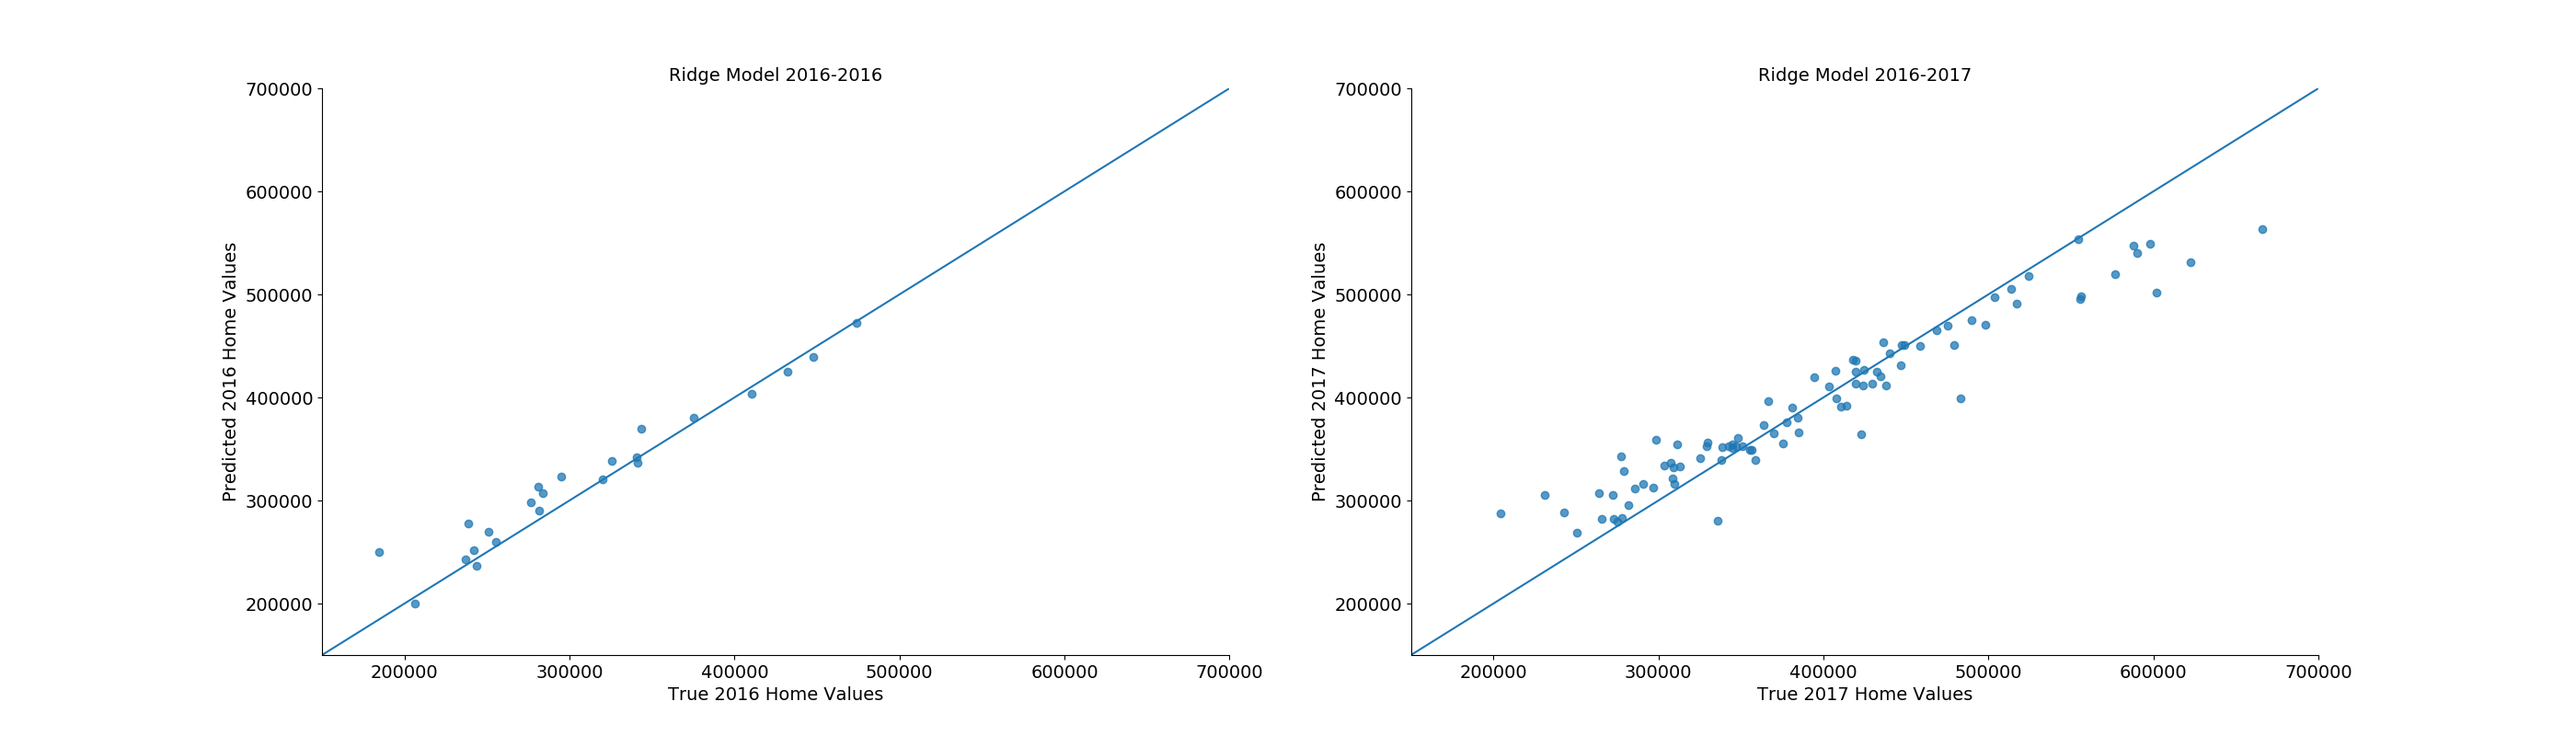
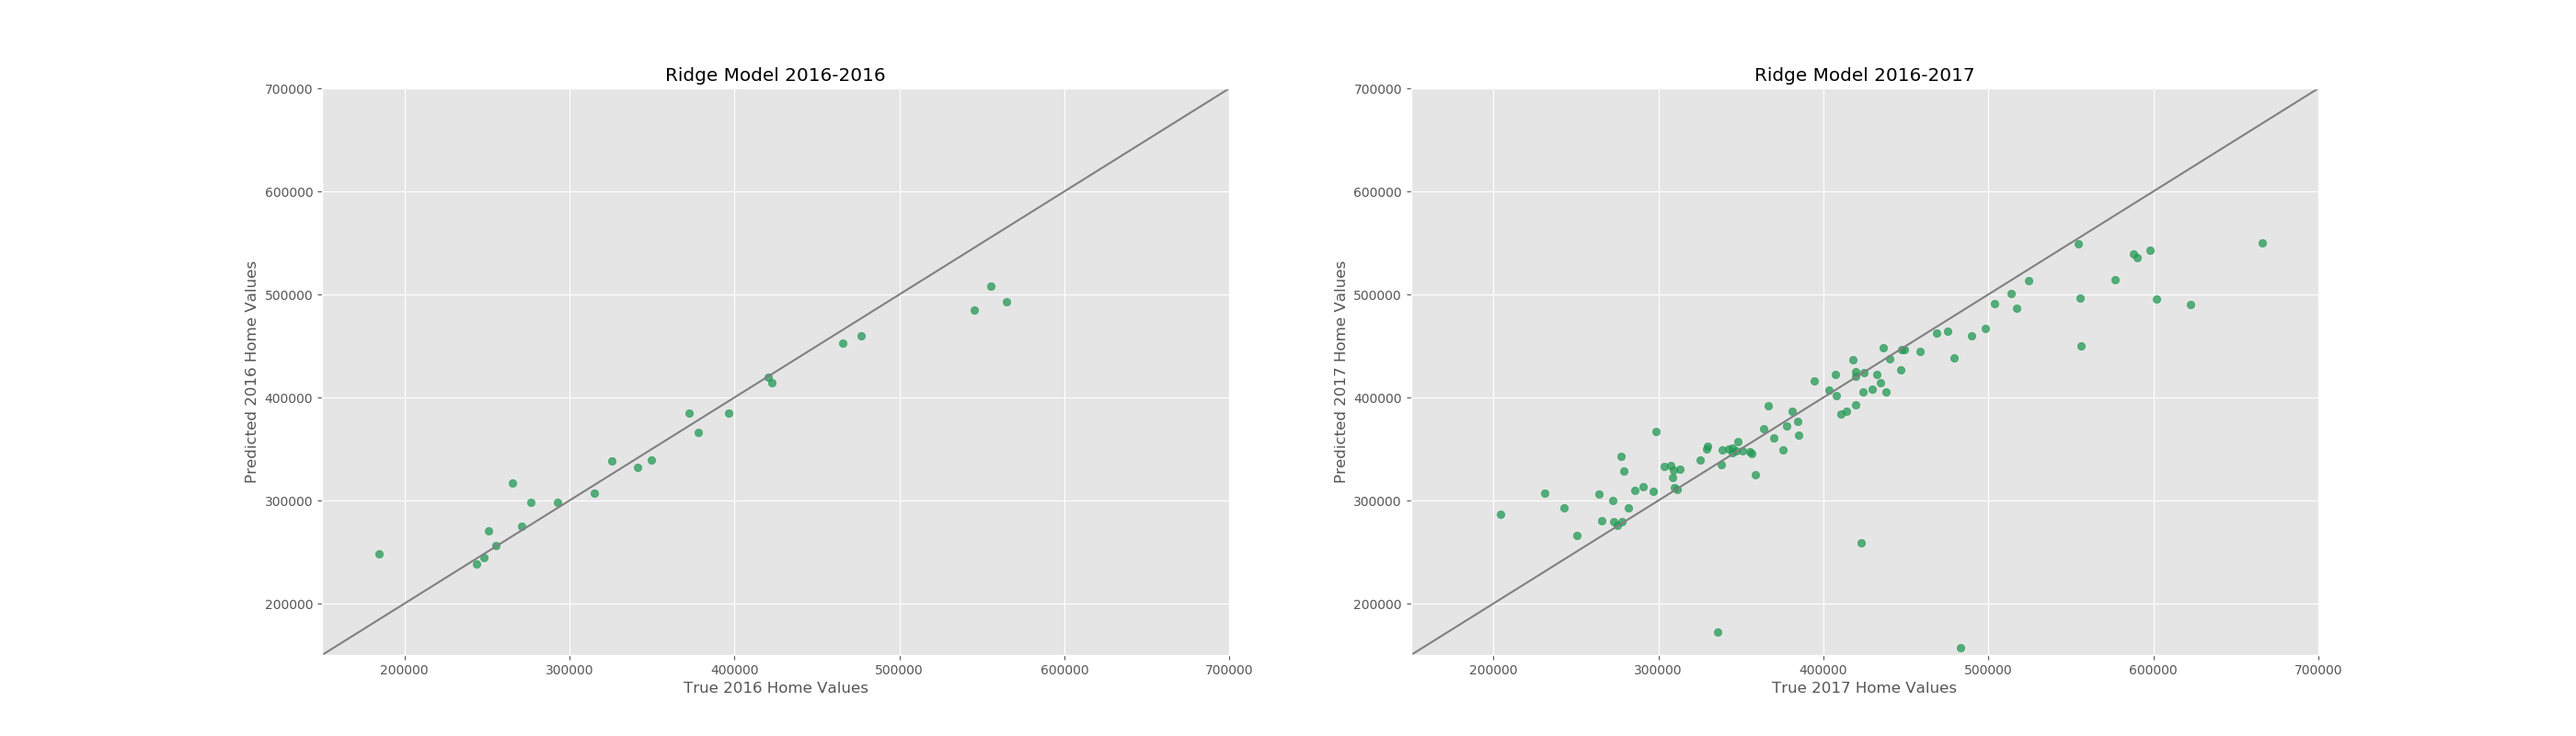
update images and scripts

diff --git a/src/regressions.py b/src/regressions.py
@@ -9,17 +9,21 @@ import numpy as np
 import pandas as pd
 import statsmodels.api as sm
 import matplotlib.pyplot as plt
+from matplotlib import style
 from math import sqrt
 from utils import XyScaler
 from sklearn.base import clone
 from sklearn.feature_selection import RFE
+from statsmodels.stats.outliers_influence import variance_inflation_factor
 
-import matplotlib
-matplotlib.rc('figure', figsize = (12, 12))
-matplotlib.rc('font', size = 14)
-matplotlib.rc('axes.spines', top = False, right = False)
-matplotlib.rc('axes', grid = False)
-matplotlib.rc('axes', facecolor = 'white')
+# import matplotlib
+# matplotlib.rc('figure', figsize = (12, 12))
+# matplotlib.rc('font', size = 14)
+# matplotlib.rc('axes.spines', top = False, right = False)
+# matplotlib.rc('axes', grid = False)
+# matplotlib.rc('axes', facecolor = 'white')
+
+style.use('ggplot')
 
 data = pd.read_csv('/Users/michellelee/galvanize/week4/analytic_capstone/data/main.csv')
 df = data.copy()
@@ -50,25 +54,25 @@ y_2018 = df['2018_Zip_Zhvi_AllHomes'].values
 
 # HISTOGRAMS OF HOME VALUES BY YEAR
 fig, (ax0, ax1, ax2) = plt.subplots(ncols=3, figsize=(28, 8))
-ax0.hist(y_2016, facecolor = '#5DADE2')
+ax0.hist(y_2016, facecolor = '#7DCEA0')
 ax0.set_title('2016')
 ax0.set_xlabel('Home Values')
 ax0.set_xlim(200000, 700000)
 ax0.set_ylim(0, 18)
 
-ax1.hist(y_2017, facecolor = '#FF5733')
+ax1.hist(y_2017, facecolor = '#229954')
 ax1.set_title('2017')
 ax1.set_xlabel('Home Values')
 ax1.set_xlim(200000, 700000)
 ax1.set_ylim(0, 18)
 
-ax2.hist(y_2018, facecolor = '#27AE60')
+ax2.hist(y_2018, facecolor = '#145A32')
 ax2.set_title('2018')
 ax2.set_xlabel('Home Values')
 ax2.set_xlim(200000, 700000)
 ax2.set_ylim(0, 18)
-# plt.savefig('ZHVI2016-2018.png')
-# plt.show()
+plt.savefig('images/ZHVI2016-2018.png')
+plt.show()
 
 # HISTOGRAM OF REAL ESTATE FEATURES
 df_real_estate_features = df_2016[[
@@ -81,9 +85,9 @@ df_real_estate_features = df_2016[[
            '2016_Zip_PctOfHomesIncreasingInValues_AllHomes',
            '2016_Zip_PriceToRentRatio_AllHomes',
            '2016_Zip_Zri_AllHomes']]
-df_real_estate_features.hist(figsize=(25,25))
-#plt.savefig('real_estate_hist')
-#plt.show
+df_real_estate_features.hist(figsize=(25,25), color='#2980B9')
+plt.savefig('images/real_estate_hist')
+plt.show()
 
 # HISTOGRAM OF BUSINESS LICENSES
 df_biz_features = df_2016[[
@@ -96,9 +100,9 @@ df_biz_features = df_2016[[
        '2016_Short_Term_Rental', '2016_Swimming_Pool',
        '2016_Tree_Service_Company', '2016_Valet_Location_License',
        '2016_Waste_Hauler', '2016_Grand_Total']]
-df_biz_features.hist(figsize=(25,25))
-#plt.savefig('biz_hist')
-#plt.show()
+df_biz_features.hist(figsize=(25,25), color='#884EA0')
+plt.savefig('images/biz_hist')
+plt.show()
 
 #------------------ LINEAR REGRESSION -------------------------------
 
@@ -174,24 +178,24 @@ rmse_test_2017 = rmse(y_2017, predicted_2017)
 
 #plot true vs. predicted
 fig, (ax0, ax1) = plt.subplots(ncols=2, figsize=(28, 8))
-ax0.scatter(y_test_2016, test_predicted_2016, alpha = .75)
+ax0.scatter(y_test_2016, test_predicted_2016, alpha = .75, color='#229954')
 line = np.linspace(150000, 700000, 1000)
-ax0.plot(line,line)
+ax0.plot(line,line, color='grey')
 ax0.set_title('Linear Model 2016-2016')
 ax0.set_xlabel('True 2016 Home Values')
 ax0.set_ylabel('Predicted 2016 Home Values')
 ax0.set_xlim(150000, 700000)
 ax0.set_ylim(150000, 700000)
 
-ax1.scatter(y_2017, predicted_2017, alpha = .75)
+ax1.scatter(y_2017, predicted_2017, alpha = .75, color='#229954')
 line = np.linspace(150000, 700000, 1000)
-ax1.plot(line,line)
+ax1.plot(line,line, color='grey')
 ax1.set_title('Linear Model 2016-2017')
 ax1.set_xlabel('True 2017 Home Values')
 ax1.set_ylabel('Predicted 2017 Home Values')
 ax1.set_xlim(150000, 700000)
 ax1.set_ylim(150000, 700000)
-#plt.savefig('linear-models.png')
+plt.savefig('images/linear-models.png')
 plt.show()
 
 print(rmse_train_2016_2016)
@@ -211,26 +215,26 @@ predicted_ridge_2017 = ridge.predict(X_2017_std)
 rmse_test_ridge_2017 = rmse(y_2017, predicted_ridge_2017)
 
 fig, (ax0, ax1) = plt.subplots(ncols=2, figsize=(28, 8))
-ax0.scatter(y_test_2016, test_predicted_ridge_2016, alpha = .75)
+ax0.scatter(y_test_2016, test_predicted_ridge_2016, alpha = .75, color='#229954')
 line = np.linspace(150000, 700000, 1000)
-ax0.plot(line,line)
+ax0.plot(line,line, color='grey')
 ax0.set_title('Ridge Model 2016-2016')
 ax0.set_xlabel('True 2016 Home Values')
 ax0.set_ylabel('Predicted 2016 Home Values')
 ax0.set_xlim(150000, 700000)
 ax0.set_ylim(150000, 700000)
 
-ax1.scatter(y_2017, predicted_ridge_2017, alpha = .75)
+ax1.scatter(y_2017, predicted_ridge_2017, alpha = .75, color='#229954')
 line = np.linspace(150000, 700000, 1000)
-ax1.plot(line,line)
+ax1.plot(line,line, color='grey')
 ax1.set_title('Ridge Model 2016-2017')
 ax1.set_xlabel('True 2017 Home Values')
 ax1.set_ylabel('Predicted 2017 Home Values')
 ax1.set_xlim(150000, 700000)
 ax1.set_ylim(150000, 700000)
 
-#plt.savefig('ridge-models.png')
-# plt.show()
+plt.savefig('images/ridge-models.png')
+plt.show()
 
 #2c. Ridge alphas
 ridge_alphas = np.logspace(-2, 4, num=250)
@@ -254,7 +258,7 @@ ax.set_title("Ridge Regression Train and Test RMSE")
 ax.set_xlabel(r"$\log(\alpha)$")
 ax.set_ylabel("RMSE")
 plt.legend()
-plt.savefig('ridge_alphas')
+plt.savefig('images/ridge_alphas')
 plt.show()
 
 
@@ -270,18 +274,18 @@ rmse_test_lasso_2017 = rmse(y_2017, predicted_lasso_2017)
 
 fig, (ax0, ax1) = plt.subplots(ncols=2, figsize=(28, 8))
 
-ax0.scatter(y_test_2016, test_predicted_lasso_2016, alpha = .75)
+ax0.scatter(y_test_2016, test_predicted_lasso_2016, alpha = .75, color='#229954')
 line = np.linspace(150000, 700000, 1000)
-ax0.plot(line,line)
+ax0.plot(line,line, color='grey')
 ax0.set_title('Lasso Model 2016-2016')
 ax0.set_xlabel('True 2016 Home Values')
 ax0.set_ylabel('Predicted 2016 Home Values')
 ax0.set_xlim(150000, 700000)
 ax0.set_ylim(150000, 700000)
 
-ax1.scatter(y_2017, predicted_lasso_2017, alpha = .75)
+ax1.scatter(y_2017, predicted_lasso_2017, alpha = .75, color='#229954')
 line = np.linspace(150000, 700000, 1000)
-ax1.plot(line,line)
+ax1.plot(line,line, color='grey')
 ax1.set_title('Lasso Model 2016-2017')
 ax1.set_xlabel('True 2017 Home Values')
 ax1.set_ylabel('Predicted 2017 Home Values')

diff --git a/src/plotting.py b/src/plotting.py
@@ -1,6 +1,7 @@
 import numpy as np
 import pandas as pd
 import matplotlib.pyplot as plt
+from pandas.plotting import scatter_matrix
 
 import matplotlib as mpl
 mpl.rc('axes.spines', top = False, right = False)
@@ -50,7 +51,36 @@ ax2.set_xlabel('Home Values')
 ax2.set_xlim(200000, 700000)
 ax2.set_ylim(0, 18)
 
-plt.savefig('ZHVI2016-2018.png')
+# plt.savefig('ZHVI2016-2018.png')
+# plt.show()
+
+
+df_real_estate_features = df_2016[[
+           '2016_InventoryMeasure_SSA_Zip_Public',
+           '2016_Zip_Listings_PriceCut_SeasAdj_AllHomes',
+           '2016_Zip_Median_PriceCut_Dollar_AllHomes',
+           '2016_Zip_MedianListingPrice_AllHomes',
+           '2016_Zip_MedianRentalPrice_AllHomes',
+           '2016_Zip_PctOfHomesDecreasingInValues_AllHomes',
+           '2016_Zip_PctOfHomesIncreasingInValues_AllHomes',
+           '2016_Zip_PriceToRentRatio_AllHomes',
+           '2016_Zip_Zri_AllHomes']]
+df_real_estate_features.hist(figsize=(25,25))
+plt.savefig('real_estate_hist')
+plt.show
+
+df_biz_features = df_2016[[
+           '2016_Body_Art_Est_Permanent', '2016_Child_Care',
+       '2016_Combined_License', '2016_Food_Retail', '2016_Food_Wholesale',
+       '2016_Garage_Repair_of_Motor_Vehic', '2016_Kennel', '2016_Liquor',
+       '2016_Medical_Marijuana', '2016_Parking_Lot,_Garage',
+       '2016_Pedal_Cab_Company', '2016_Retail_Food_Establishment',
+       '2016_Retail_Marijuana_', '2016_Second_Hand_Dealer',
+       '2016_Short_Term_Rental', '2016_Swimming_Pool',
+       '2016_Tree_Service_Company', '2016_Valet_Location_License',
+       '2016_Waste_Hauler', '2016_Grand_Total']]
+df_biz_features.hist(figsize=(25,25))
+plt.savefig('biz_hist')
 plt.show()
 
 #scatter matrix
@@ -70,7 +100,38 @@ df_2016_scatter.columns = ['ZHVI', 'Inventory', '%Price_Cut', 'Med_Price_Cut', '
                            'ZRI', 'Business']
 
 scatter_matrix(df_2016_scatter, alpha=0.75, figsize=(14, 14), diagonal='kde')
-plt.savefig('scatter_matrix_2016')
+# plt.savefig('scatter_matrix_2016')
+# plt.show()
+
+
+#scatter matrix with business data
+df_biz_scatter = df_scatter[['2016_Zip_Zhvi_AllHomes',
+                             '2016_Body_Art_Est_Permanent',
+                             '2016_Child_Care',
+                             '2016_Combined_License',
+                             '2016_Food_Retail',
+                             '2016_Food_Wholesale',
+                             '2016_Garage_Repair_of_Motor_Vehic',
+                             '2016_Kennel',
+                             '2016_Liquor',
+                             '2016_Medical_Marijuana',
+                             '2016_Parking_Lot,_Garage',
+                             '2016_Pedal_Cab_Company',
+                             '2016_Retail_Food_Establishment',
+                             '2016_Retail_Marijuana_',
+                             '2016_Second_Hand_Dealer',
+                             '2016_Short_Term_Rental',
+                             '2016_Swimming_Pool',
+                             '2016_Tree_Service_Company',
+                             '2016_Valet_Location_License',
+                             '2016_Waste_Hauler']]
+df_biz_scatter.columns = ['ZHVI', 'Body_Art', 'Child_Care', 'Combined',
+                          'Food_Retail', 'Food_Wholesale', 'Garage', 'Kennel', 'Liquor',
+                          'Med_Marijuana', 'Parking_Lot', 'Pedal_Cab', 'Food_Estab', 'Retail_Marijuana',
+                          'Second_Hand', 'Short_Term_Rental', 'Swimming_Pool', 'Tree_Service', 'Valet',
+                          'Waste_Hauler']
+scatter_matrix(df_biz_scatter, alpha=0.75, figsize=(14, 14), diagonal='kde')
+plt.savefig('scatter_biz')
 plt.show()
 
 #some select scatter graphs

diff --git a/src/data_clean.py b/src/data_clean.py
@@ -4,6 +4,7 @@ import numpy as np
 import pandas as pd
 from functools import reduce
 from fancyimpute import KNN
+from statsmodels.stats.outliers_influence import variance_inflation_factor
 
 #Read all files in folder
 files = glob.glob('/Users/michellelee/galvanize/week4/analytic_capstone/zillow_data/*.csv')
@@ -61,4 +62,4 @@ df_biz2016.fillna(0, inplace=True)
 df_filled = df_filled.merge(df_biz2016, on='RegionName')
 
 
-df_filled.to_csv('/Users/michellelee/galvanize/week4/analytic_capstone/data/main.csv')
+#df_filled.to_csv('/Users/michellelee/galvanize/week4/analytic_capstone/data/main.csv')
